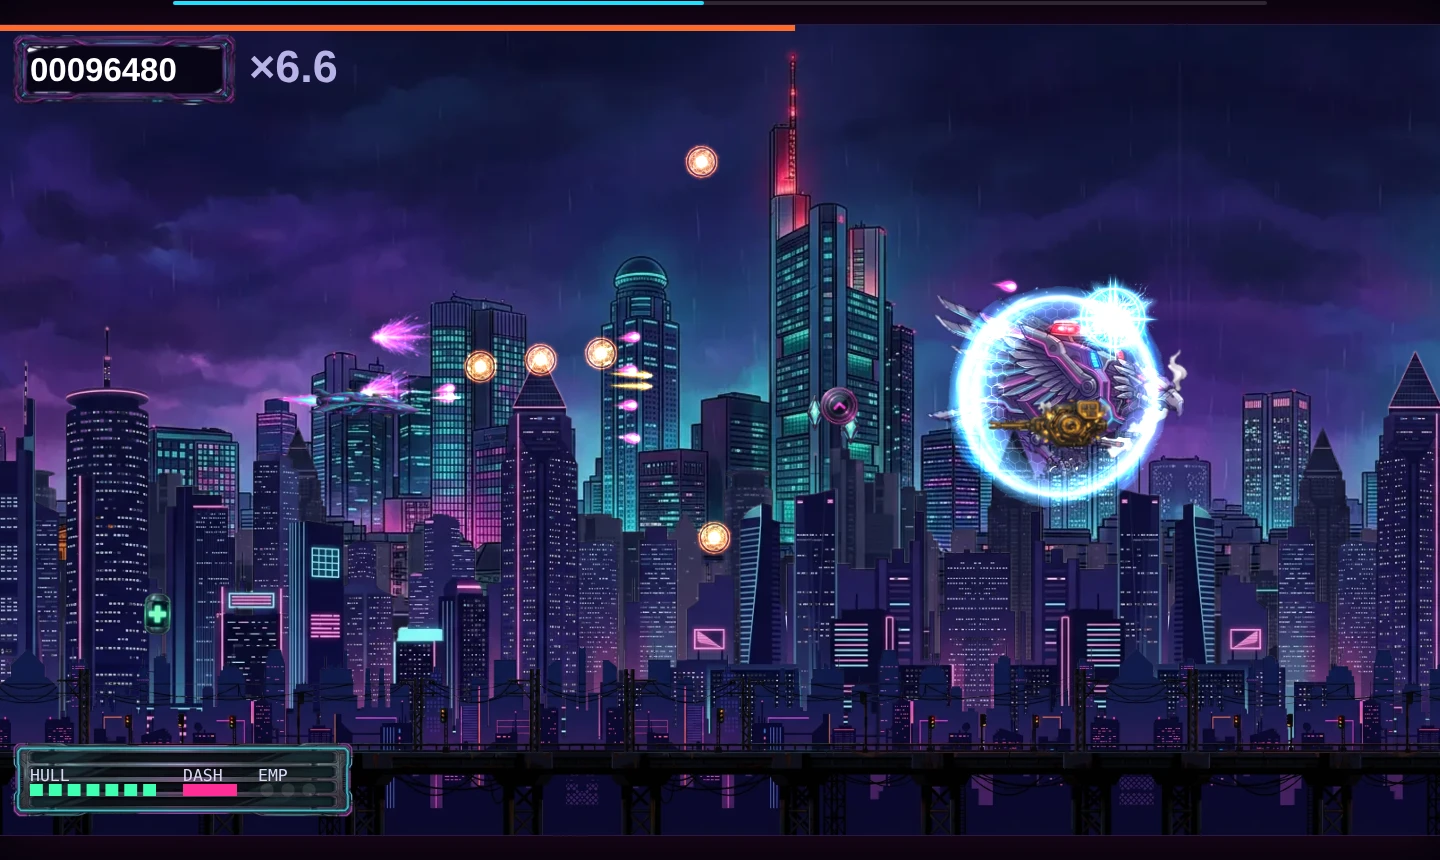
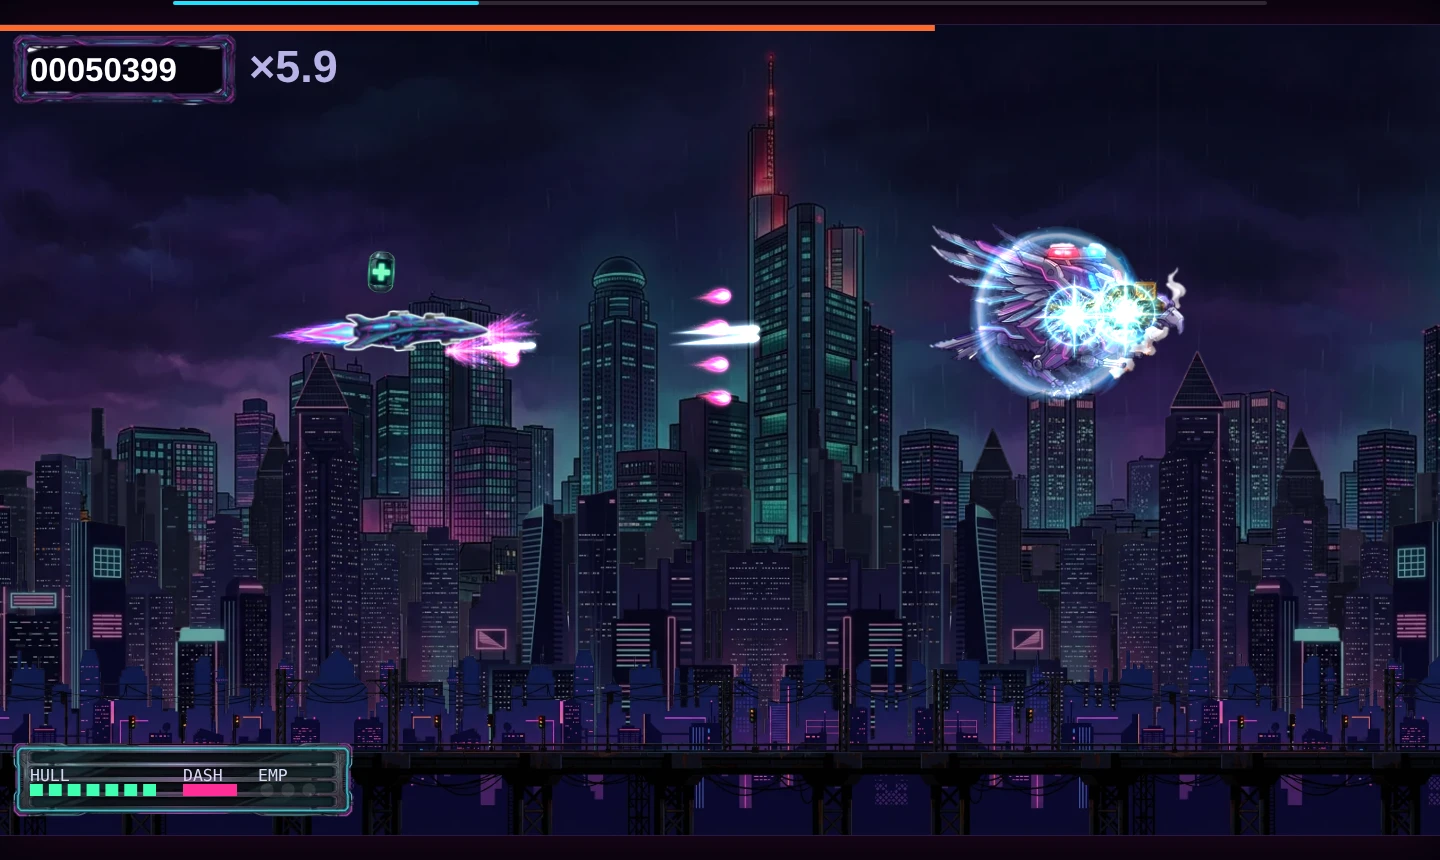
Nightrun W216: lighter boss shield, bigger phone boss, merge flight branch

diff --git a/games-src/nightrun/parts/render/pureboss.js b/games-src/nightrun/parts/render/pureboss.js
@@ -10,12 +10,12 @@ const PB=window.PB={hud:0,   // >0 while a HUD function runs (qa/pureprobe.js co
   
   img(n){const b=ART.bm[n];if(!b){if(b===undefined)ART.load(n);return null;}return b;},
   pic(n,x,y,w,h,ang,al){const b=this.img(n);if(!b)return false;ctx.save();ctx.globalCompositeOperation='lighter';if(al!=null)ctx.globalAlpha=al;ctx.translate(x,y);if(ang)ctx.rotate(ang);ctx.drawImage(b,-w/2,-(h||w*b.height/b.width)/2,w,h||w*b.height/b.width);ctx.restore();return true;},
-  shield(e,t){const k='fx-shield/glow';if(!ART.ANIM.s[k]||!ART.anim(k))return;const s=ART.ANIM.s[k];ctx.save();ctx.globalCompositeOperation='lighter';ART.drawAnim(ctx,k,t,0,0,e.r*3.2/s[3],false);ctx.restore();},
+  shield(e,t){const k='fx-shield/glow';if(!ART.ANIM.s[k]||!ART.anim(k))return;const s=ART.ANIM.s[k];ctx.save();ctx.globalCompositeOperation='lighter';ART.drawAnim(ctx,k,t,0,0,e.r*3.2*.8/s[3],false,.6);ctx.restore();},   // 0.8x at alpha .6: the boss outline shows through
   boss(e,t){const ak=ART.artK(e),nm=ART.bossN[ak];if(!nm)return true;const b=ART.bm['spr-boss-'+nm];if(!b){ART.load('spr-boss-'+nm);return true;}
     SPR.warmBoss(nm);
     for(const l of e.lasers||[]){ctx.save();ctx.translate(l.x,l.y);ctx.rotate(l.a);
       if(l.t<2*BT.spb)this.pic('fx-eb-aim-line',700,0,1400,10,0,.9);else this.pic('fx-eb-laser-sweep',700,0,1400,40,0,.95);ctx.restore();}
-    const wd=1.2*(ak===6?e.r*3.6*b.width/b.height:e.r*[3.6,3.4,3,3.2,3.2,3.6,0,3.4,3.4,3.4][ak]),   // art only (e.r stays the hitbox); a boss must read first on a phone
+    const wd=(wcv!==cv?1.9:1.2)*(ak===6?e.r*3.6*b.width/b.height:e.r*[3.6,3.4,3,3.2,3.2,3.6,0,3.4,3.4,3.4][ak]),   // art only (e.r stays the hitbox); a phone boss body is >= 40% of the short side
       mv=UIK.boss[nm]&&UIK.boss[nm].move||'air',by=mv==='air'?Math.sin(t*1.6)*3:0,tl=mv==='air'?Math.sin(t*.9)*.035:0;
     ctx.save();ctx.translate(e.x,e.y);SPR.boss(e,nm,wd,by,tl,e.flash>0);if(e.b2s)this.shield(e,t);ctx.restore();return true;},
   gate(e,t){ctx.save();ctx.translate(e.x,0);const top=e.gy-e.gap/2,bot=e.gy+e.gap/2,fl=e.flash>0;

diff --git a/games-src/nightrun/qa/pureprobe.js b/games-src/nightrun/qa/pureprobe.js
@@ -12,6 +12,7 @@ const { boot, open, ok, done, sleep } = require('./lib');
   const R = await p.evaluate(`(async()=>{const BOT=${BOTSRC};const stage=${stage},shot=${!!process.env.SHOT},W_=900,SHOTAT=${+process.env.SHOTAT || 10};
     const m = window.__mnr, C = {}, seen = {}; const fb = {}; let seenBoss = -1, phase = 'stage', bossAt = -1, frames = 0, bossFrames = 0, ebKinds = {}, err = null, shotDone = false; m.god = true;
     for (const k of ['arc', 'ellipse', 'rect', 'fillRect', 'stroke', 'fill', 'fillText', 'strokeText', 'strokeRect']) { const o = CanvasRenderingContext2D.prototype[k]; CanvasRenderingContext2D.prototype[k] = function () { if (!window.PB.hud && this.canvas.width >= 300 && !/ART\\.bg|bigGet/.test(new Error().stack)) { const key = phase + ':' + k; C[key] = (C[key] || 0) + 1; if (!seen[key]) seen[key] = (new Error().stack || '').split('\\n').slice(2, 8).map(s => s.trim().replace(/\\(.*[\\\\/]/, '(')).join(' < '); } return o.apply(this, arguments); }; }
+    const pp = PURL.player; if (${!!process.env.SKIPSHIP}) PURL.player = function () { window.PB.hud++; try { return pp.apply(this, arguments); } finally { window.PB.hud--; } };   // SKIPSHIP=1: W215 owns the player ship (its rim light fills rects)
     const pf = PURL.foe; PURL.foe = function (e) { const r = pf.apply(this, arguments); if (!r) fb[phase + ':' + e.type + (e.zt ? '/zoo' : '') + (e.gnd ? '/gnd' : '')] = 1; return r; };
     const la = window.LEAK.art; window.LEAK.art = function (e) { if (e.type !== 'gwalker') fb['LEAK-' + e.type] = 1; window.PB.hud += e.type === 'gwalker' ? 1 : 0; try { return la.apply(this, arguments); } finally { if (e.type === 'gwalker') window.PB.hud--; } };   // gwalker has no sheet yet (ship-egwalker, ASSETS-NEEDED-ENEMIES.md #13): its old picture stays, not counted
     window.__rec = (mm, i) => { if (m.G.en.some(e => e.type === 'boss')) seenBoss = m.G.t; if (m.G.boss && bossAt < 0) { bossAt = m.G.t; phase = 'boss'; } if (shot && m.G.boss && m.G.boss.x < W_ * .8 && m.G.t - bossAt > SHOTAT) throw 'SHOT'; if (i % 20 || err) return;

diff --git a/games-src/nightrun/review-shots/W216/README.md b/games-src/nightrun/review-shots/W216/README.md
@@ -21,3 +21,10 @@ Left over, not fixed: gwalker (ground walker, no sheet yet: `ship-egwalker`, ASS
 | Boss bar (HUD) | 7 | Thin orange line on the top edge, clear but easy to miss next to the progress strip. |
 | Environment | not in scope | Unchanged from W214. |
 My scores are higher than the owner's last (all < 10/100 + 15 allowed by rule 17c); this is a worker view, the owner's verdict decides.
+
+## Round 2 (critic W219: owner-art 6, silhouette 5, find-player 2, enemy shells 8)
+Merged origin/nr/W215-flight (player ship, shots, backdrop, pure default) cleanly. Shield fx now 0.8x at alpha .6 so the boss outline shows; phone boss art drawn 1.9x
+(body about 40% of the 390 px short side in the new shot; PC 1.2x). Enemy shells unchanged (orange family). New shots replace the old pair.
+Probe: PASS on phone and PC with SKIPSHIP=1. Without it W215's player rim light (PURL.player > rim, fillRect) shows up as code shapes; that is W215's part, not changed here.
+Re-scored from the new pair: boss 7 (outline readable now, but hit flashes still wash the body on PC), enemy shots 8, beams / gates 7 (unchanged, not re-viewed), boss bar 7.
+Find-player is W215's row: the player ship is small and pink-on-purple against the boss in the phone shot.
